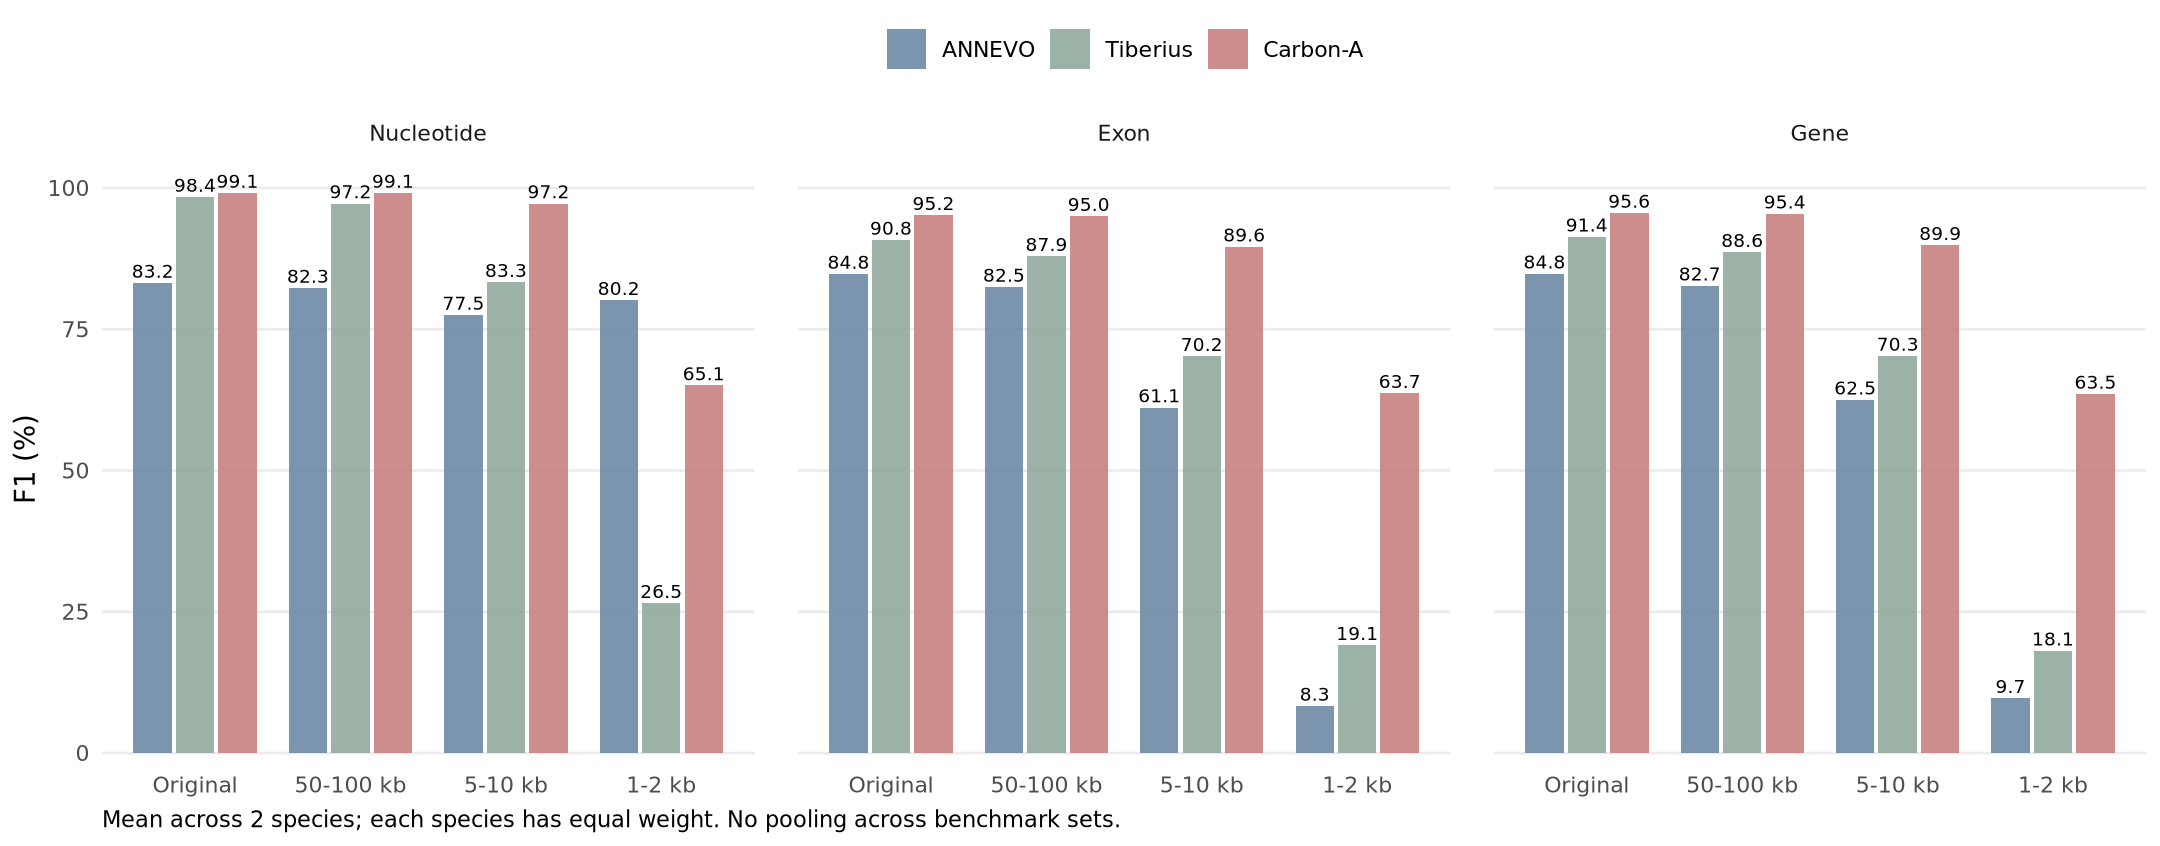
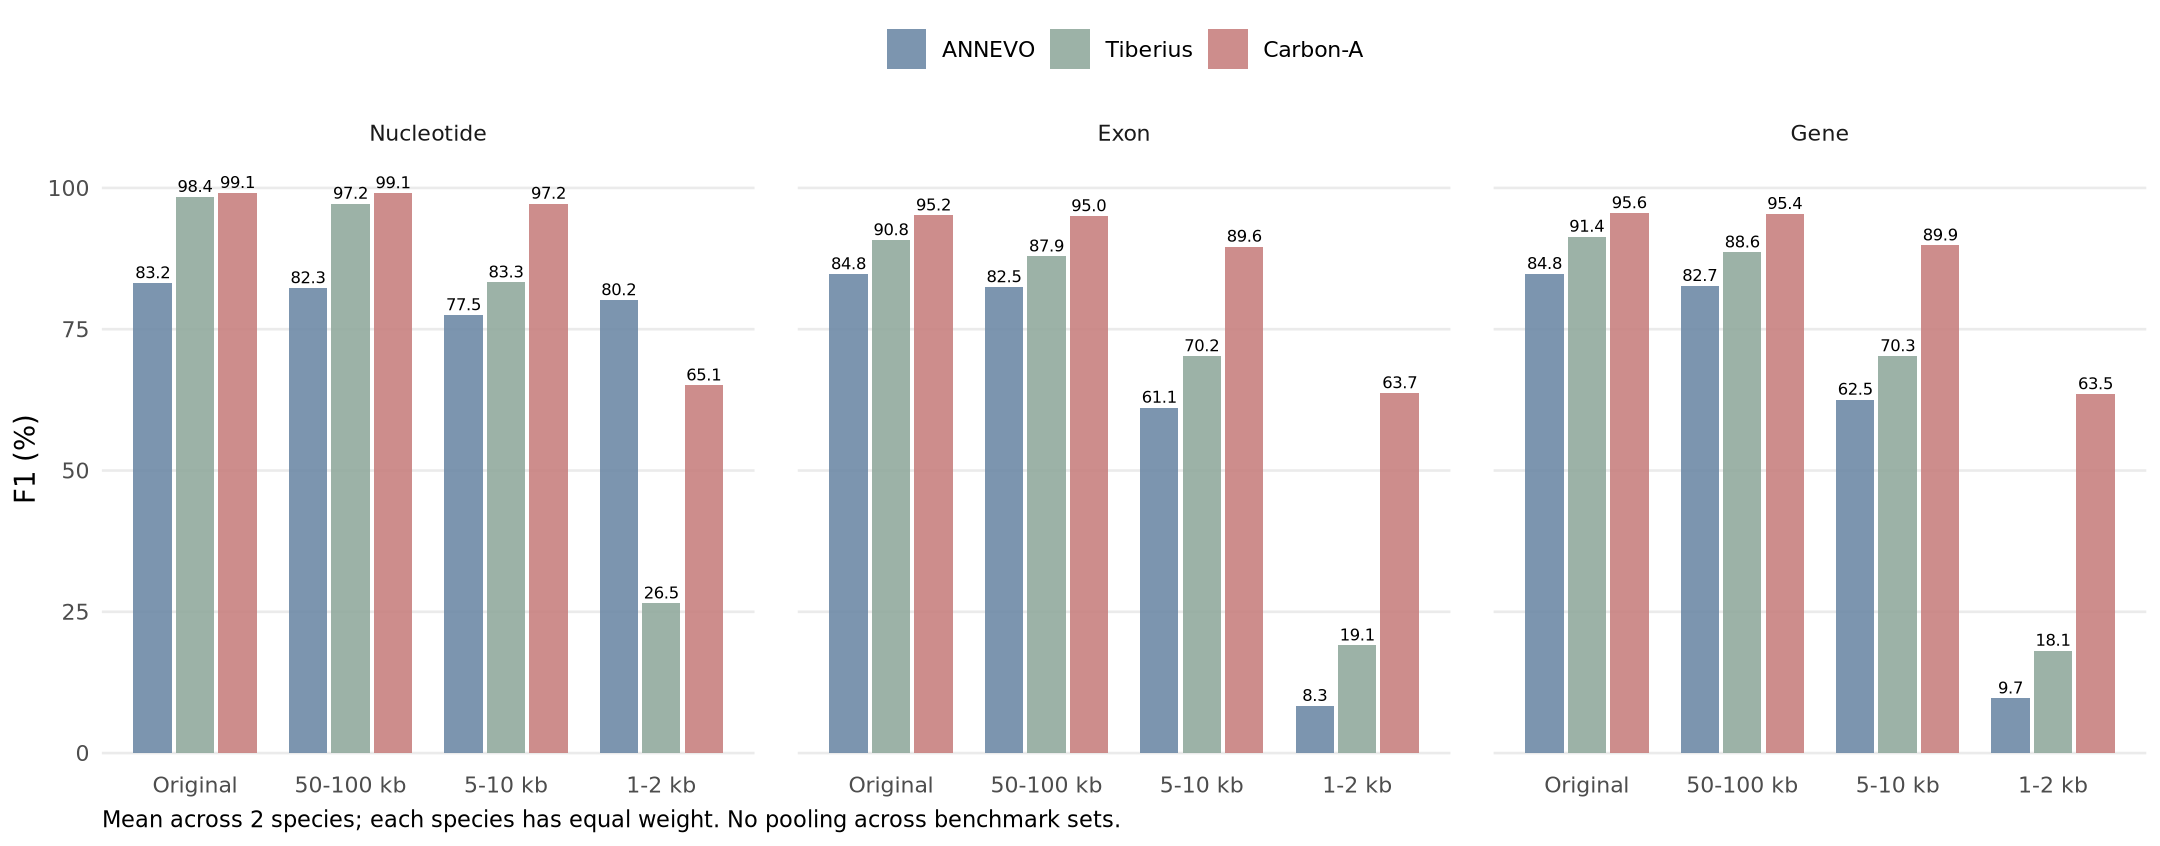
Record prepared Carbon-A cohort and improve figure labels

diff --git a/README.md b/README.md
@@ -12,7 +12,7 @@ The primary question is short-contig performance. Reference CDS are clipped to e
 | --- | ---: | --- | --- |
 | ANNEVO fungal test species | 2 | Complete: 24 primary runs + 48 single-record runs | Both species are in Tiberius's published training list. |
 | Tiberius primary fungal test species | 6 | Inputs verified; GPU runs queued/running | Tiberius's benchmark documentation states that none trained Tiberius or ANNEVO. |
-| Carbon-A official fungal evaluation set | 5 | Five assemblies identified; four new inputs being prepared | The official data description lists all five as `seen`; no unseen fungi. |
+| Carbon-A official fungal evaluation set | 5 | Inputs verified; 12 yeast cases reused; 48 new runs waiting | The official data description lists all five as `seen`; no unseen fungi. |
 
 These are independently rerun comparisons on the authors' selected species, **not a reproduction of their published headline scores**. We use one common evaluator and explicit reference screening. The sets remain separate; means give each species equal weight, with **no SD or error bars**. Per-species tables are always retained. Incomplete sets are not averaged or filled with zeros.
 
